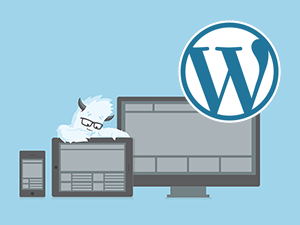
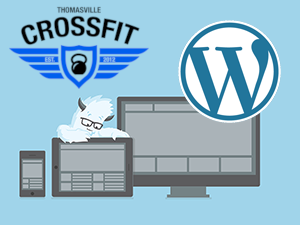
Change theme info

Changed region(s): [[0.03, 0.0311, 0.51, 0.4044]]

diff --git a/wp-content/themes/OverheadPress/style.css b/wp-content/themes/OverheadPress/style.css
@@ -1,11 +1,11 @@
 /*
-Theme Name:         FoundationPress
-Theme URI:          http://foundationpress.olefredrik.com
-Github Theme URI:   https://github.com/olefredrik/FoundationPress
-Description:        FoundationPress is a WordPress starter theme based on Foundation 6 by Zurb
-Version:            2.10.4
-Author:             Ole Fredrik Lie
-Author URI:         http://olefredrik.com/
+Theme Name:         OverheadPress
+Theme URI:          https://ogdendavis.com
+Github Theme URI:   https://github.com/ogdendavis/new-tcf
+Description:        A theme for Thomasville CrossFit, based on FoundationPress, which is based on Foundation 6 by Zurb
+Version:            0.1
+Author:             Lucas Ogden-Davis
+Author URI:         https://ogdendavis.com/
 
 License:            MIT License
 License URI:        http://www.opensource.org/licenses/mit-license.php
